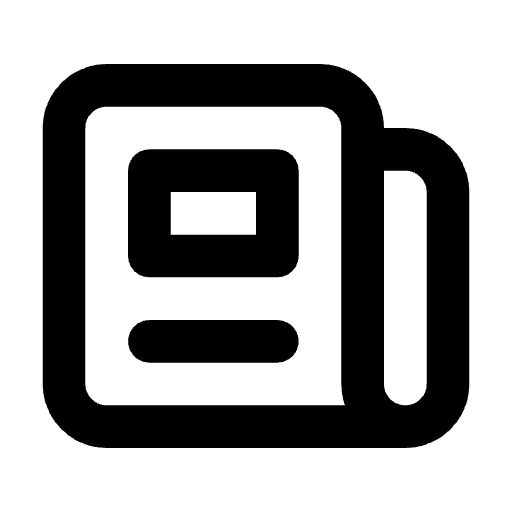
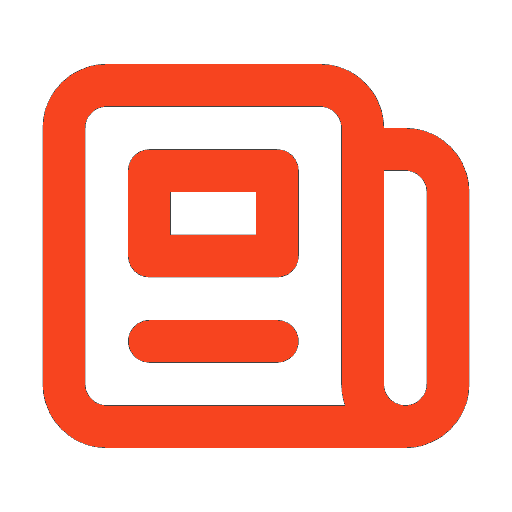
Ispravljene ikone i SVG kako bi se konzistentno prikazivali. Te ispravljen date parsing bug za određene RSS izvore.

diff --git a/frontend/src/components/FeedSwitcher.vue b/frontend/src/components/FeedSwitcher.vue
@@ -40,6 +40,24 @@ watch(() => feedsStore.selectedCategoryId, () => {
 
 const emit = defineEmits(['feed-changed']);
 
+const getFeedDomain = (feed) => {
+  if (feed?.domain) return feed.domain;
+  try {
+    return new URL(feed?.url || '').hostname.replace('www.', '');
+  } catch {
+    return '';
+  }
+};
+
+const getFaviconUrl = (feed) => {
+  const domain = getFeedDomain(feed);
+  return domain ? `https://www.google.com/s2/favicons?domain=${encodeURIComponent(domain)}&sz=64` : '';
+};
+
+const onFaviconError = (event) => {
+  event.target.style.display = 'none';
+};
+
 onMounted(() => {
   feedsStore.loadFromLocalStorage();
 });
@@ -48,29 +66,40 @@ onMounted(() => {
 <template>
   <div v-if="categoryFeeds.length > 0" class="feed-switcher">
     <!-- Desktop verzija -->
-    <div class="hidden md:flex items-center gap-2 flex-wrap justify-center mb-4">
+    <div class="hidden md:block mb-4">
       <button
         @click="selectAllFeeds"
         :class="activeFeedId === null ? 'btn-primary' : 'btn-ghost'"
-        class="btn btn-xs"
+        class="btn btn-xs mb-3"
         title="Prikaži sve feedove iz kategorije"
       > 
         <span class="text-xs">📰 Svi ({{ categoryFeeds.length }})</span>
       </button>
 
-      <div class="divider divider-horizontal mx-0"></div>
-
-      <button
-        v-for="feed in categoryFeeds"
-        :key="feed.id"
-        @click="selectFeed(feed.id)"
-        :class="activeFeedId === feed.id ? 'btn-secondary' : 'btn-ghost'"
-        class="btn btn-xs"
-        :title="`Prikaži samo vijesti iz ${feed.name}`"
-      >
-        <span class="text-xs">{{ feed.name }}</span>
-        <span v-if="feed.isCustom" class="badge badge-xs">custom</span>
-      </button>
+      <div class="desktop-source-grid">
+        <button
+          v-for="feed in categoryFeeds"
+          :key="feed.id"
+          @click="selectFeed(feed.id)"
+          :class="activeFeedId === feed.id ? 'btn-secondary' : 'btn-ghost'"
+          class="btn btn-sm justify-start normal-case h-auto min-h-0 py-2 px-3"
+          :title="`Prikaži samo vijesti iz ${feed.name}`"
+        >
+          <img
+            v-if="getFaviconUrl(feed)"
+            :src="getFaviconUrl(feed)"
+            :alt="`${feed.name} favicon`"
+            class="w-4 h-4 rounded-sm flex-shrink-0"
+            loading="lazy"
+            @error="onFaviconError"
+          >
+          <span class="text-left leading-tight flex-1 min-w-0">
+            <span class="block text-xs font-medium truncate">{{ feed.name }}</span>
+            <span class="block text-[10px] opacity-60 truncate">{{ getFeedDomain(feed) }}</span>
+          </span>
+          <span v-if="feed.isCustom" class="badge badge-xs ml-1">custom</span>
+        </button>
+      </div>
     </div>
 
     <!-- Mobile verzija -->
@@ -114,6 +143,15 @@ onMounted(() => {
   padding: 0.5rem;
   background: var(--fallback-b2, oklch(var(--b2) / 1));
   border-radius: 0.5rem;
+}
+
+.desktop-source-grid {
+  display: grid;
+  grid-template-columns: repeat(auto-fit, minmax(180px, 1fr));
+  gap: 0.5rem;
+  max-height: 14rem;
+  overflow-y: auto;
+  padding-right: 0.25rem;
 }
 
 .divider-horizontal {

diff --git a/frontend/src/Services/NewsGlobal.js b/frontend/src/Services/NewsGlobal.js
@@ -214,11 +214,52 @@ const getBestContent = (item) => {
   return description || content; 
 };
 
-//helper za datume
+// helper za datume (Safari-friendly)
 const parseDateSafe = (dateStr) => {
-  if (!dateStr) return new Date().toISOString();
-  const d = new Date(dateStr);
-  return isNaN(d.getTime()) ? new Date().toISOString() : d.toISOString();
+  if (!dateStr || typeof dateStr !== 'string') return null;
+
+  const trimmed = dateStr.trim();
+  if (!trimmed) return null;
+
+  const normalized = trimmed
+    // Neki feedovi šalju "... 12:00:00 Z" što Safari često ne parsira dobro.
+    .replace(/\s+Z$/i, ' GMT')
+    // Normalizacija timezone formata +0000 -> +00:00
+    .replace(/\s([+-]\d{2})(\d{2})$/, ' $1:$2');
+
+  const parsed = new Date(normalized);
+  if (!Number.isNaN(parsed.getTime())) {
+    return parsed.toISOString();
+  }
+
+  // Fallback za RFC822-like format: "Sun, 29 Mar 2026 12:00:00 Z"
+  const match = trimmed.match(/^[A-Za-z]{3},\s(\d{1,2})\s([A-Za-z]{3})\s(\d{4})\s(\d{2}):(\d{2})(?::(\d{2}))?\sZ$/);
+  if (match) {
+    const months = {
+      Jan: 0, Feb: 1, Mar: 2, Apr: 3, May: 4, Jun: 5,
+      Jul: 6, Aug: 7, Sep: 8, Oct: 9, Nov: 10, Dec: 11
+    };
+    const month = months[match[2]];
+    if (month !== undefined) {
+      const date = new Date(Date.UTC(
+        Number(match[3]),
+        month,
+        Number(match[1]),
+        Number(match[4]),
+        Number(match[5]),
+        Number(match[6] || '0')
+      ));
+      if (!Number.isNaN(date.getTime())) return date.toISOString();
+    }
+  }
+
+  return null;
+};
+
+const getTimestampOrOldest = (dateStr) => {
+  if (!dateStr) return Number.NEGATIVE_INFINITY;
+  const ts = new Date(dateStr).getTime();
+  return Number.isNaN(ts) ? Number.NEGATIVE_INFINITY : ts;
 };
 
 
@@ -278,7 +319,7 @@ const parseRSSFeed = (xmlText, feed) => {
       }
       link = link || '#';
       
-      const pubDate = getText(item, dateSelectors) || new Date().toISOString();
+      const pubDate = parseDateSafe(getText(item, dateSelectors));
       const rawContent = getText(item, contentSelectors) || '';
       const guid = getText(item, guidSelectors) || link || `${feed.name}-${Date.now()}-${Math.random()}`;
       
@@ -373,9 +414,7 @@ function convertBackendFeedToXML(feedData) {
   });
   
   const unique = Array.from(uniqueMap.values());
-  unique.sort((a, b) => {
-    return new Date(b.pubDate || 0) - new Date(a.pubDate || 0);
-  });
+  unique.sort((a, b) => getTimestampOrOldest(b.pubDate) - getTimestampOrOldest(a.pubDate));
   
   cachedNews.value = unique.slice(0, 150);
   };
@@ -496,11 +535,7 @@ const fetchNewsFresh = async (categoryId = null, forceRefresh = false) => {
           return true;
         });
 
-        unique.sort((a, b) => {
-          const dateA = new Date(b.pubDate || 0).getTime();
-          const dateB = new Date(a.pubDate || 0).getTime();
-          return dateA - dateB;
-        });
+        unique.sort((a, b) => getTimestampOrOldest(b.pubDate) - getTimestampOrOldest(a.pubDate));
 
         const newCachedNews = unique.slice(0, 300);
 

diff --git a/frontend/src/components/NewsTimeline.vue b/frontend/src/components/NewsTimeline.vue
@@ -39,9 +39,9 @@ const filteredNews = computed(() => {
 const sortedNews = computed(() => {
   const sorted = [...filteredNews.value]
   return sorted.sort((a, b) => {
-    const dateA = new Date(a.pubDate || 0)
-    const dateB = new Date(b.pubDate || 0)
-    return sortOrder.value === 'desc' ? dateB - dateA : dateA - dateB
+    const tsA = Number.isNaN(new Date(a.pubDate).getTime()) ? Number.NEGATIVE_INFINITY : new Date(a.pubDate).getTime()
+    const tsB = Number.isNaN(new Date(b.pubDate).getTime()) ? Number.NEGATIVE_INFINITY : new Date(b.pubDate).getTime()
+    return sortOrder.value === 'desc' ? tsB - tsA : tsA - tsB
   })
 })
 

diff --git a/frontend/index.html b/frontend/index.html
@@ -10,7 +10,7 @@
   <meta name="apple-mobile-web-app-status-bar-style" content="default" />
   <link rel="icon" type="image/png" href="/favicon-96x96.png" sizes="96x96" />
   <link rel="icon" type="image/svg+xml" href="/favicon.svg" />
-  <link rel="shortcut icon" href="/favicon.ico" />
+  <link rel="shortcut icon" href="/favicon.svg" />
   <link rel="manifest" href="/manifest.json" />
   <link rel="apple-touch-icon" sizes="180x180" href="/apple-touch-icon.png" />
   <meta name="apple-mobile-web-app-title" content="NewsCombo" />

diff --git a/frontend/src/components/NavBar.vue b/frontend/src/components/NavBar.vue
@@ -3,7 +3,7 @@
     <div class="flex-1">
       <router-link to="/" class="btn btn-ghost text-xl">
         <svg xmlns="http://www.w3.org/2000/svg" class="h-6 w-6 mr-2" fill="none" viewBox="0 0 24 24"
-          stroke="currentColor">
+          stroke="#f7441f">
           <path stroke-linecap="round" stroke-linejoin="round" stroke-width="2"
             d="M19 20H5a2 2 0 01-2-2V6a2 2 0 012-2h10a2 2 0 012 2v1m2 13a2 2 0 01-2-2V7m2 13a2 2 0 002-2V9a2 2 0 00-2-2h-2m-4-3H9M7 16h6M7 8h6v4H7V8z" />
         </svg>
